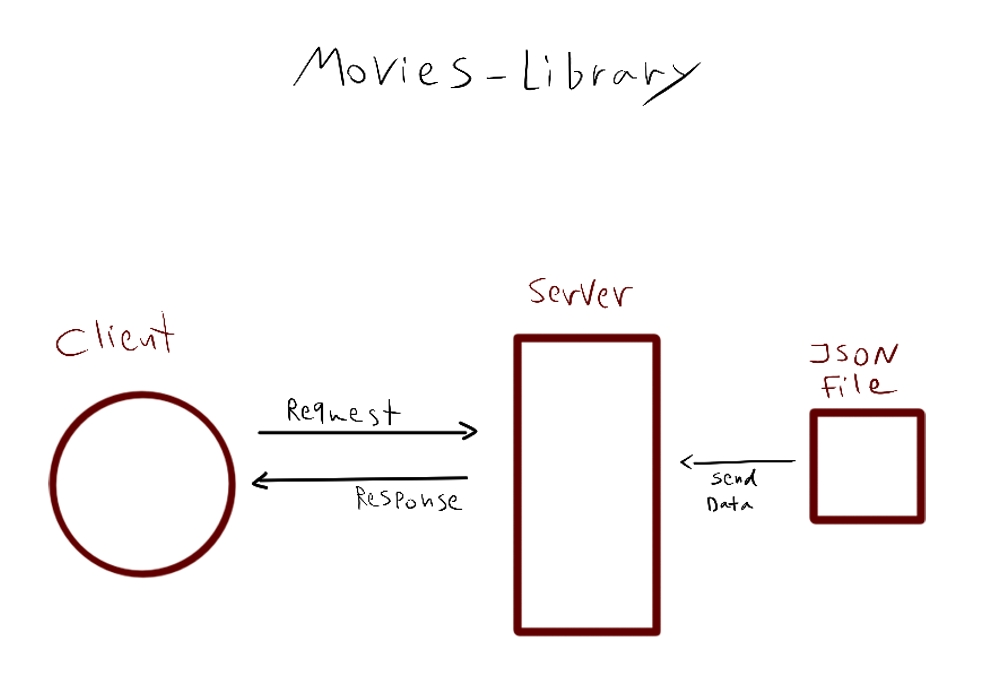
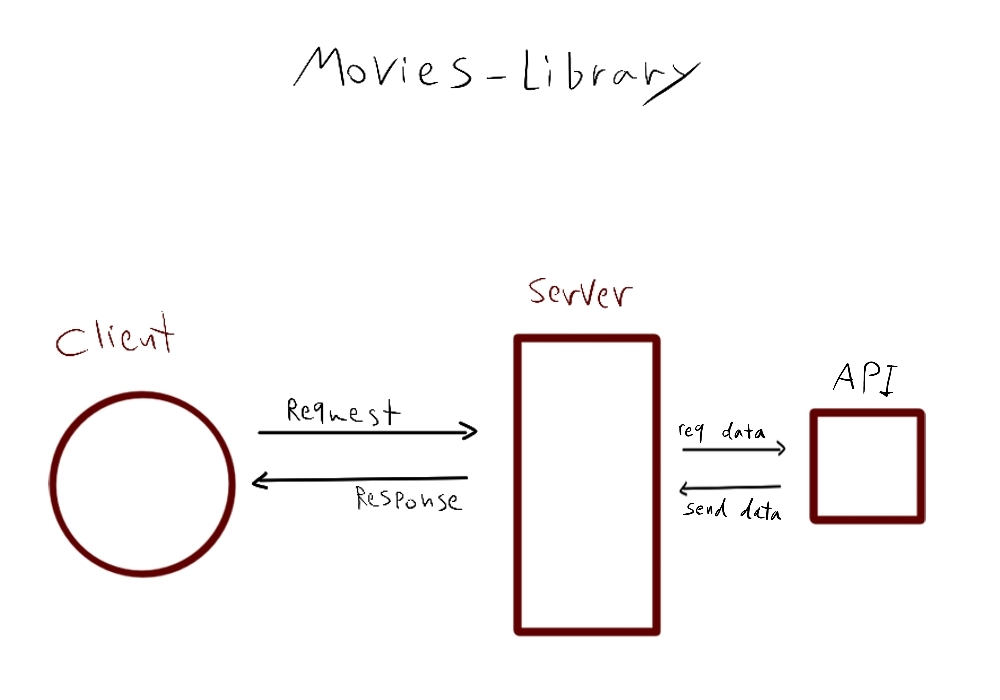
lab14

Changed region(s): [[0.682, 0.6, 0.806, 0.75], [0.806, 0.48, 0.899, 0.57]]

diff --git a/server.js b/server.js
@@ -5,16 +5,29 @@ const cors = require('cors');
 
 const data = require('./Movie Data/data.json');
 
+require('dotenv').config();
+const axios = require('axios');
+
 const app = express();
 app.use(cors());
 app.use(express.json());
 
-
+//local API
 app.get('/', showData);
 app.get('/favorite', favoritePage);
 
+//3rd party API
+app.get('/trending', handleTrendingMovie);
+app.get('/search', handleSearchingAMovie);
+app.get('/similarmovies', handleSimilarMovies);
+app.get('/availableregions', handleAvailableRegions);
+
 app.use('*', code404);
 app.use('*', code500);
+
+const PORT = process.env.PORT || 3005;
+const APIURL = process.env.APIURL;
+const APIKEY = process.env.APIKEY;
 
 
 function showData(req, res) {
@@ -32,6 +45,63 @@ function favoritePage(req, res) {
     res.send('Welcome to Favorite Page');
 }
 
+async function handleTrendingMovie(req, res){
+    const getAPITrending = await axios.get(`${APIURL}/3/trending/all/week?api_key=${APIKEY}`);
+
+    getAPITrending.data.results.map(movie => new Trending(movie.id, movie.title, movie.release_date, movie.poster_path, movie.overview))
+
+    res.status(200).json({
+        code : 200,
+        trendingMovies : Trending.TrendingMovies
+    })
+}
+
+function Trending(id, title, release_date, poster_path, overview) {
+    this.id = id;
+    this.title = title;
+    this.release_date = release_date;
+    this.poster_path = poster_path;
+    this.overview = overview;
+
+    Trending.TrendingMovies.push(this);
+}
+
+Trending.TrendingMovies=[];
+
+function handleSearchingAMovie(req, res){
+    const searchWord = req.query.search;
+    const searchpage = req.query.page;
+
+    axios.get(`${APIURL}/3/search/movie?api_key=${APIKEY}&query=${searchWord}&page=${searchpage}`).then(result => {
+        res.status(200).json({
+            code:200,
+            Movies: result.data.results
+        })
+    }).catch(err => {
+        code500(err, req, res)
+    })
+}
+
+async function handleSimilarMovies(req, res){
+    const movieId = req.query.movie_id;
+
+    const SimilarMovies = await axios.get(`${APIURL}/3/movie/${movieId}/similar?api_key=${APIKEY}`);
+
+    res.status(200).json({
+        code : 200,
+        similarMovies : SimilarMovies.data.results.map(movie => movie.title)
+    })
+}
+
+function handleAvailableRegions(req, res){
+    axios.get(`${APIURL}/3/watch/providers/regions?api_key=${APIKEY}`).then(result => {
+        res.status(200).json({
+            code:200,
+            Available_regions: result.data.results.map(region => region.english_name)
+        })
+    }).catch( err => code500(err, req, res))
+}
+
 function code404(req, res) {
     res.status(404).json(
         {
@@ -41,15 +111,15 @@ function code404(req, res) {
     )
 }
 
-function code500(err, req, res, next) {
+function code500(err, req, res) {
     res.status(500).json(
         {
             code: 500,
-            responseText: 'Sorry, something went wrong'
+            responseText: err.message || err
         }
     )
     
 }
 
 
-app.listen(3000, () => console.log('Server is working'));
+app.listen(PORT, () => console.log(`Server is working on port ${PORT}`));

diff --git a/README.md b/README.md
@@ -1,4 +1,4 @@
-# movies-library - Lab 13
+# movies-library - Lab 14
 
 **Author Name**: Sham Al-Jalam.
 
@@ -6,12 +6,14 @@
 ![](WRRC.jpg)
 
 ## Overview
-created a server using Node.js, Express.js and CORS, and used different kinds of request and handling errors.
+I've created movie library app by building a server using Node.js, Express.js and CORS, and nodemon in order for the server to be updated automatically ,and dotenv in order to be able to create global variables, alongside with axios to do different kind of http methods.
 ## Getting Started
-1. download Node.js
-2. initial a file
-3. download Express and cors
-4. start building the app in index.js/server.js
+1. open from a client
+2. enter the valid URL
+3. if the URL requires query params don't forget to specify them
 
 ## Project Features
-a movie app that can check the latest movies based on categories.
+* show trending movies
+* search through the movies by by passing the movie's name and the page's number in the URL as query params
+* show similar movies by passing an ID for that movie in the URL as query param
+* show available regions
